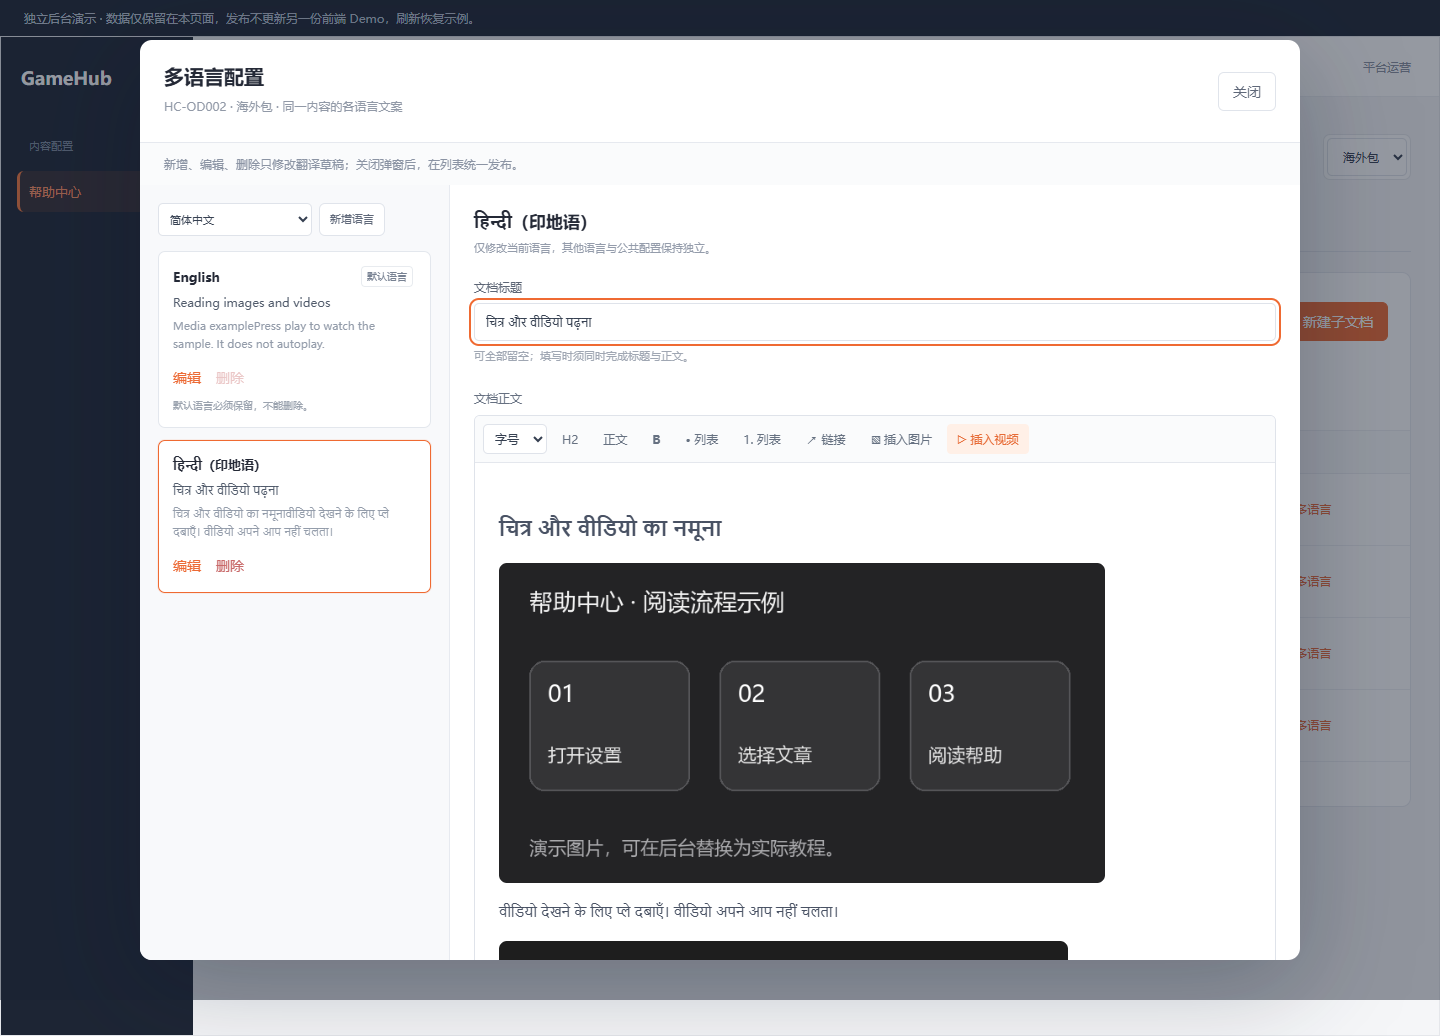
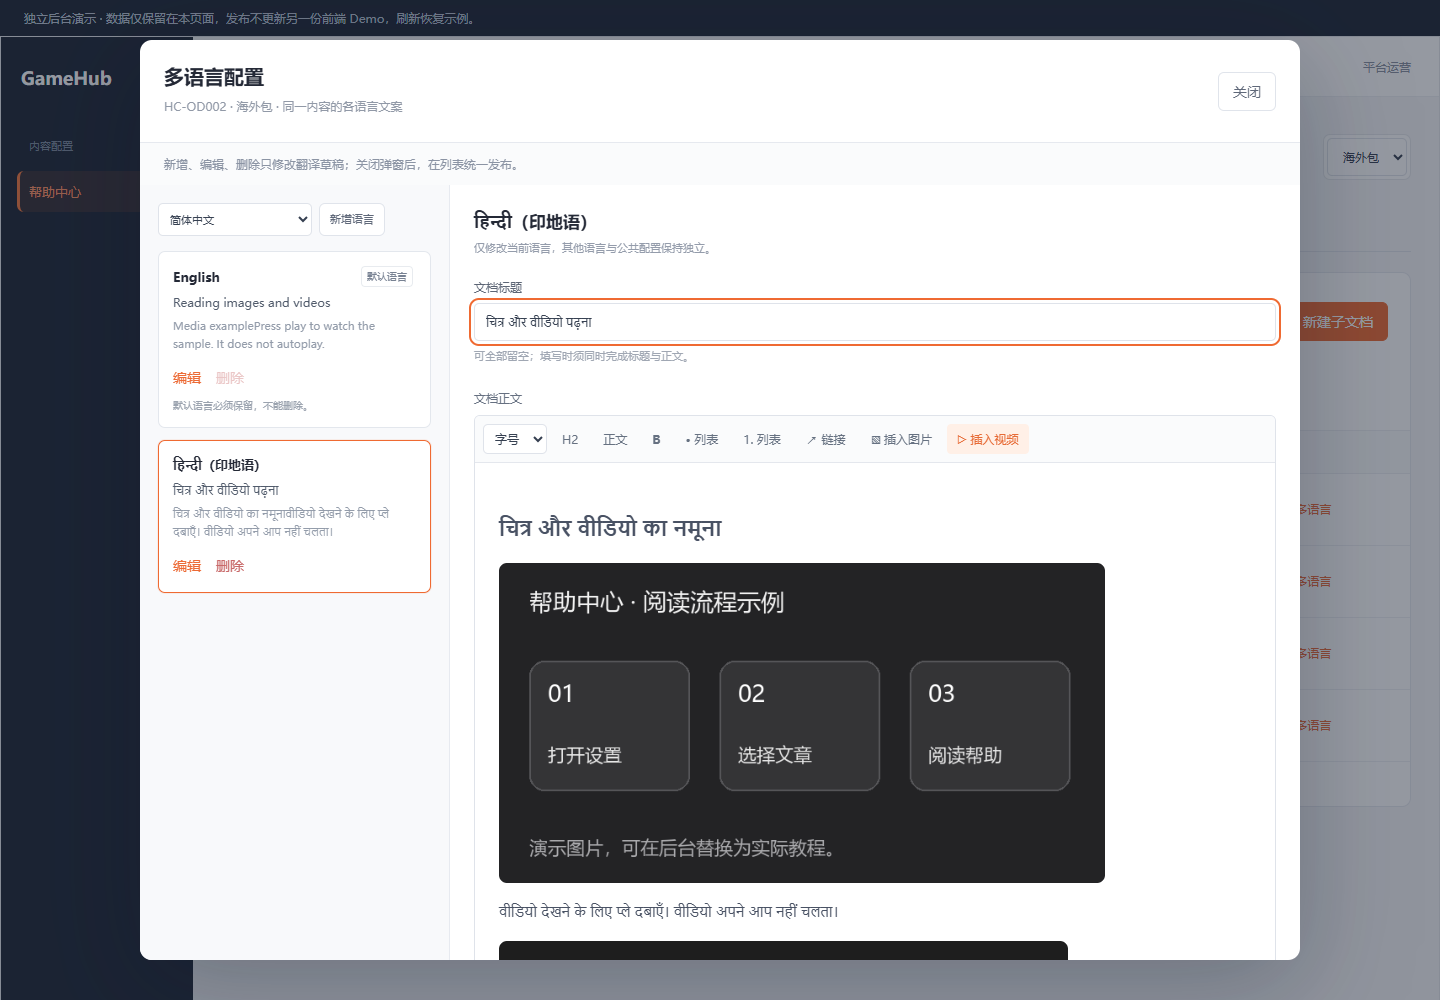
Refresh language preview while editing modal draft

diff --git a/demos/帮助中心/帮助中心后台demo.html b/demos/帮助中心/帮助中心后台demo.html
@@ -129,6 +129,14 @@
     const nav=root.querySelector('[data-ha-nav]');
     if(nav&&item.navId!==nav.value) {item.navId=nav.value;item.order=Math.min(999999,Math.max(0,...store.draft.docs.filter(doc=>doc.navId===nav.value).map(doc=>doc.order))+10);}
     store.notify();
+    if(state.modal){
+      const card=root.querySelector(`[data-ha-language-card="${state.language}"]`);
+      if(card){
+        card.querySelector('.ha-language-card-title').textContent=item[state.language].title||'尚未填写标题';
+        const excerpt=card.querySelector('.ha-language-excerpt');
+        if(excerpt){const fragment=document.createElement('div');fragment.innerHTML=store.sanitize(item[state.language].html||'');excerpt.textContent=fragment.textContent.trim().slice(0,100)||(fragment.querySelector('img,video')?'含图片或视频':'尚未填写正文');}
+      }
+    }
     const saved=root.querySelector('[data-ha-saved]'); if(saved) saved.textContent='草稿已自动保留 · 发布后才会同步 App';
   }
   function feedback(message) {state.feedback=message;const node=root?.querySelector('[data-ha-language-dialog] [data-ha-feedback]')||root?.querySelector('[data-ha-feedback]');if(node) node.textContent=message;}

diff --git a/demos/帮助中心/src/admin.js b/demos/帮助中心/src/admin.js
@@ -26,6 +26,14 @@
     const nav=root.querySelector('[data-ha-nav]');
     if(nav&&item.navId!==nav.value) {item.navId=nav.value;item.order=Math.min(999999,Math.max(0,...store.draft.docs.filter(doc=>doc.navId===nav.value).map(doc=>doc.order))+10);}
     store.notify();
+    if(state.modal){
+      const card=root.querySelector(`[data-ha-language-card="${state.language}"]`);
+      if(card){
+        card.querySelector('.ha-language-card-title').textContent=item[state.language].title||'尚未填写标题';
+        const excerpt=card.querySelector('.ha-language-excerpt');
+        if(excerpt){const fragment=document.createElement('div');fragment.innerHTML=store.sanitize(item[state.language].html||'');excerpt.textContent=fragment.textContent.trim().slice(0,100)||(fragment.querySelector('img,video')?'含图片或视频':'尚未填写正文');}
+      }
+    }
     const saved=root.querySelector('[data-ha-saved]'); if(saved) saved.textContent='草稿已自动保留 · 发布后才会同步 App';
   }
   function feedback(message) {state.feedback=message;const node=root?.querySelector('[data-ha-language-dialog] [data-ha-feedback]')||root?.querySelector('[data-ha-feedback]');if(node) node.textContent=message;}
